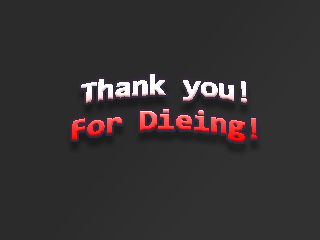
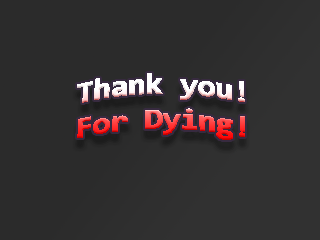
Slight bugfixes
Just some minor spelling and code issues.

Changed region(s): [[0.4375, 0.3208, 0.8125, 0.6125], [0.2188, 0.2917, 0.5312, 0.4375], [0.2188, 0.4667, 0.4062, 0.5833]]

diff --git a/scripts/game.js b/scripts/game.js
@@ -125,6 +125,11 @@ function Render()
 function TileMover()
 {
 	if (!IsCommandQueueEmpty("player")) return;
+
+	if (GetPersonX("player") % 16 != 0 || GetPersonY("player") % 16 != 0) {
+		SetPersonX("player", GetTileX("player")*16+7);
+		SetPersonY("player", GetTileY("player")*16+7);
+	}
 	
 	var command = null;
 	

diff --git a/readme.md b/readme.md
@@ -1,7 +1,10 @@
 Amped for Health Potions
 ========================
 
-A game made for Ludum Dare 27.
+A game made for Ludum Dare's 48 hour compo #27.
+
+Check it out:
+http://www.ludumdare.com/compo/ludum-dare-27/?action=preview&uid=26346
 
 Theme:
 ======
@@ -20,7 +23,6 @@ Controls:
 =========
 
  - Arrow keys: movement
- - Hit enemies: bump into them.
- - Stores: run into doors*.
- 
-* The game pauses while you are in a store or in a menu.
+ - Spacebar: action
+
+(The game pauses while you are in a menu or textbox.)
